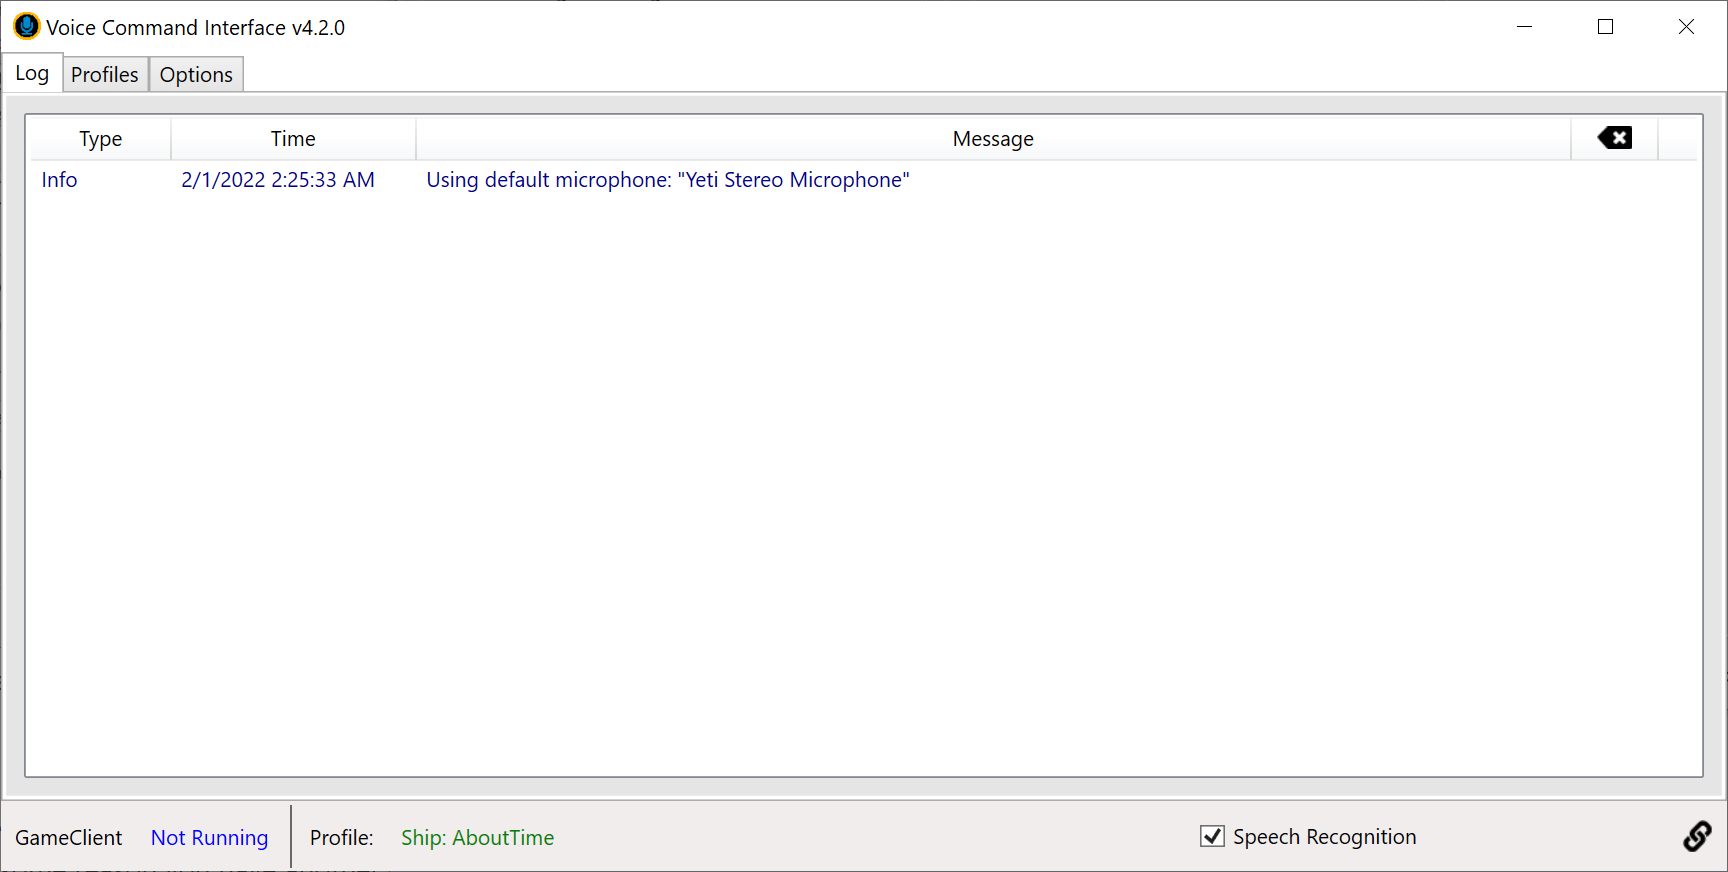
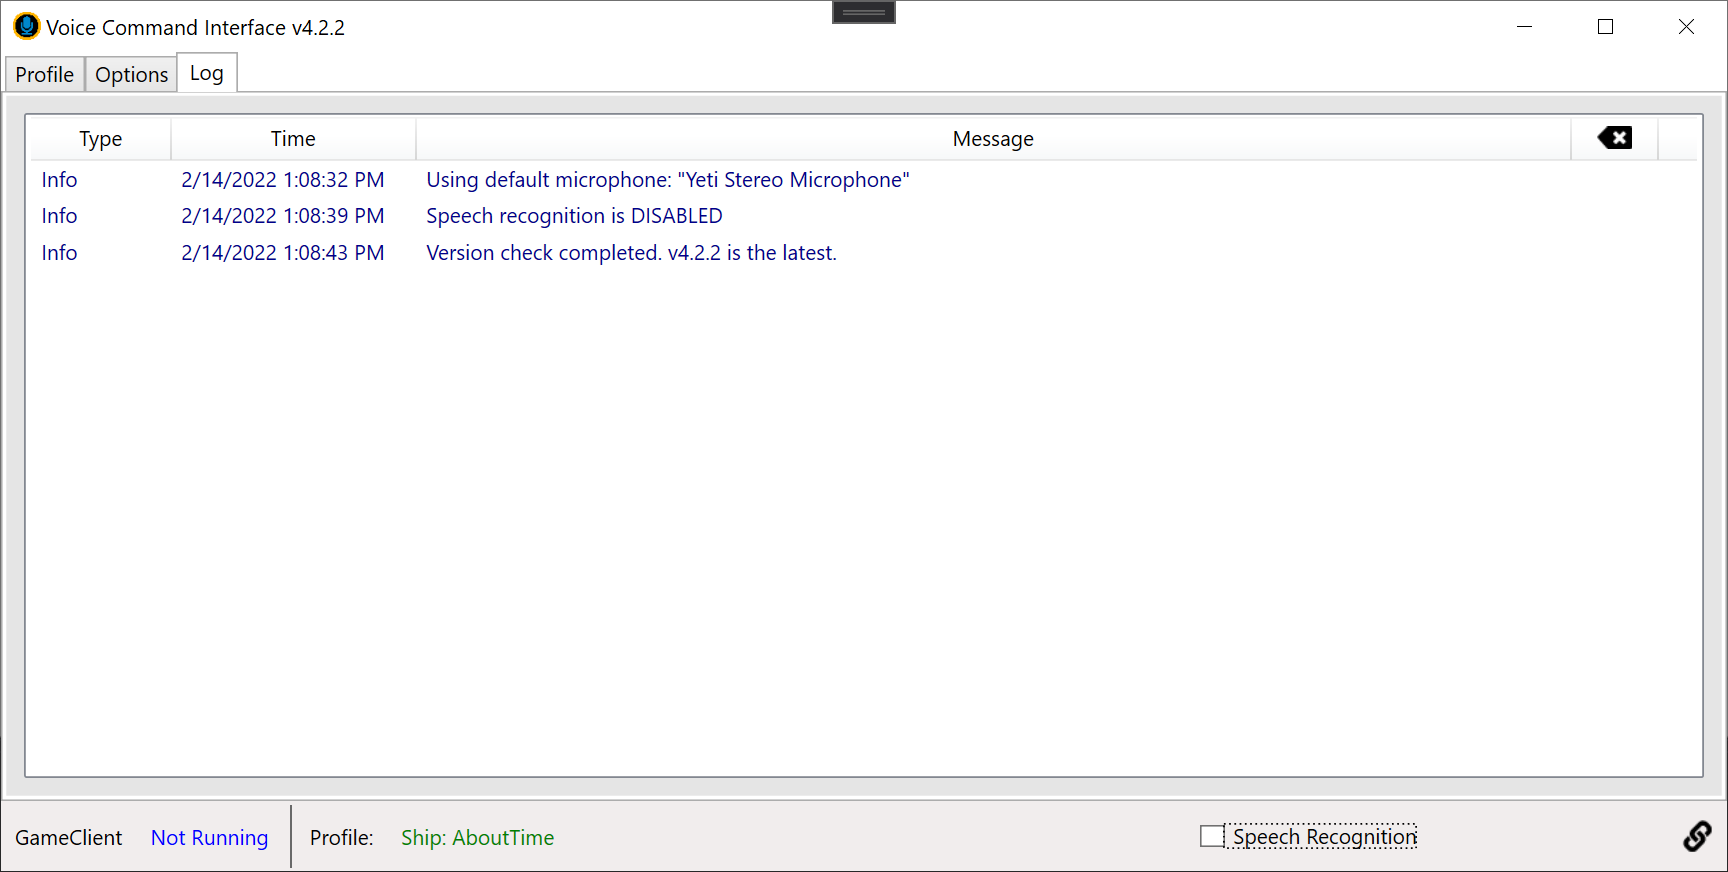
Updated readme and screeshots for interface changes

diff --git a/README.md b/README.md
@@ -1,4 +1,4 @@
-# Voice Command Interface v4.2.0
+# Voice Command Interface v4.2.2
 
 ![VCILogo](OrcYell.png?v17-10-2021) 
 
